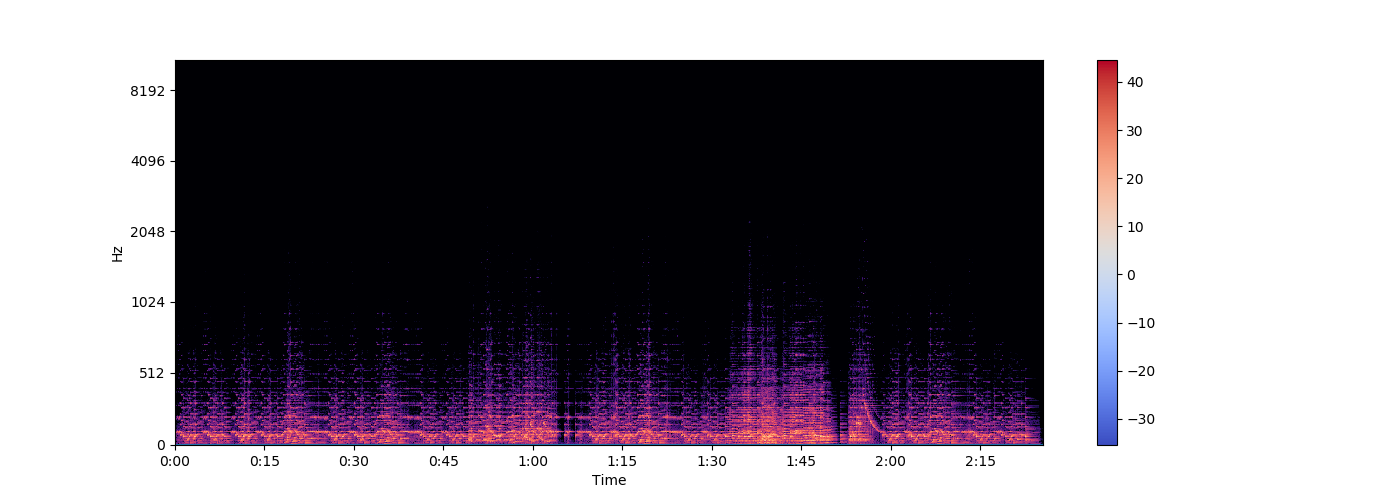
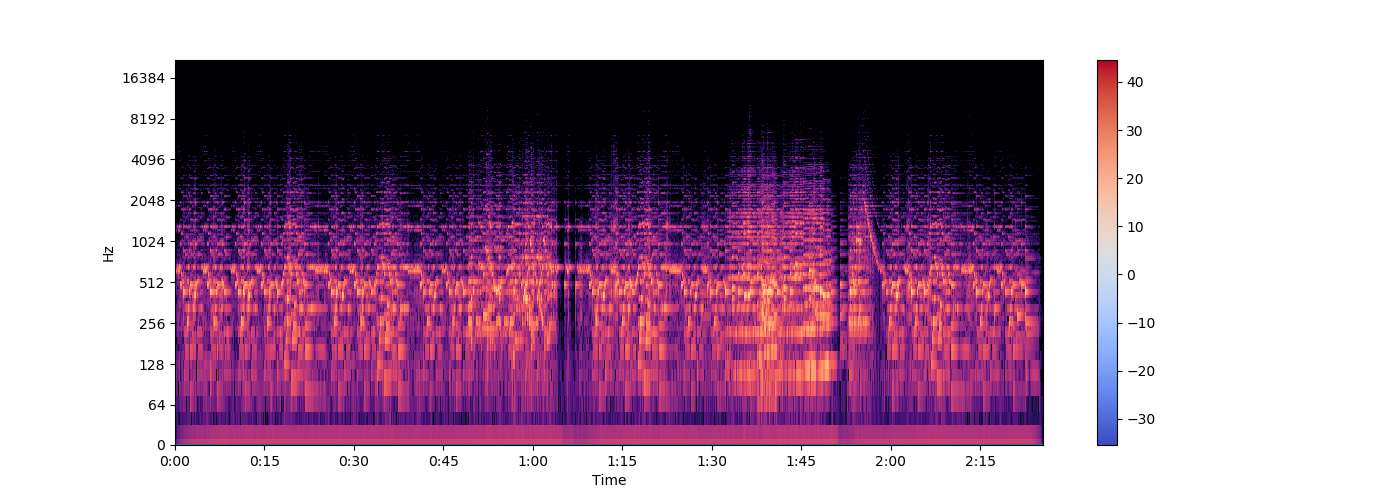
ya genero espectogramas de mel

diff --git a/refAudio.py b/refAudio.py
@@ -21,18 +21,18 @@ y = np.sin(x ** 2)
 
 
 # mostrar onda sonora
-plt.figure(figsize=(14, 5))
-librosa.display.waveplot(data, sr=sr)
-plt.show()
+# plt.figure(figsize=(14, 5))
+# librosa.display.waveplot(data, sr=sr)
+# plt.show()
 
 
 # mostrar espectograma
-X = librosa.stft(data)
-Xdb = librosa.amplitude_to_db(abs(X))
-plt.figure(figsize=(14, 5))
-librosa.display.specshow(Xdb, sr=sr, x_axis='time', y_axis='hz')
-plt.colorbar()
-plt.show()
+# X = librosa.stft(data)
+# Xdb = librosa.amplitude_to_db(abs(X))
+# plt.figure(figsize=(14, 5))
+# librosa.display.specshow(Xdb, sr=sr, x_axis='time', y_axis='hz')
+# plt.colorbar()
+# plt.show()
 
 # librosa.display.specshow(Xdb, sr=sr, x_axis='time', y_axis='log')
 # plt.colorbar()
@@ -46,8 +46,8 @@ pianosong, _ = librosa.effects.trim(data)
 # Transformada de Fourier
 n_fft = 2048
 D = np.abs(librosa.stft(pianosong[:n_fft], n_fft=n_fft, hop_length=n_fft+1))
-plt.plot(D)
-plt.show()
+# plt.plot(D)
+# plt.show()
 
 
 hop_length = 512
@@ -60,5 +60,11 @@ D = np.abs(librosa.stft(pianosong, n_fft=n_fft,  hop_length=hop_length))
 DB = librosa.amplitude_to_db(D, ref=np.max)
 librosa.display.specshow(
     DB, sr=sr, hop_length=hop_length, x_axis='time', y_axis='log')
+plt.colorbar(format='%+2.0f dB')
+plt.show()
+
+
+S = librosa.feature.melspectrogram(y=data, sr=sr)
+librosa.display.specshow(librosa.power_to_db(S, ref=np.max))
 plt.colorbar(format='%+2.0f dB')
 plt.show()

diff --git a/audioToImage.py b/audioToImage.py
@@ -102,7 +102,7 @@ def melSpectograms(audioName, theData, theSr):
     # Espectograma de Mel
     DB = librosa.amplitude_to_db(D, ref=np.max)
     librosa.display.specshow(
-        DB, sr=theSr, hop_length=hop_length, x_axis='time', y_axis='mel')
+        DB, sr=theSr, hop_length=hop_length, x_axis='time', y_axis='log')
     # plt.colorbar(format='%+2.0f dB')
     # plt.show()
     filename2 = 'Images/Mel_Spectograms/y_axis_mel/' + str(audioName) +'.png'
